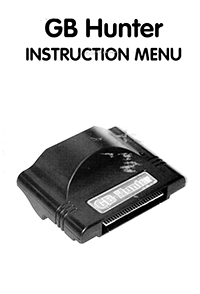
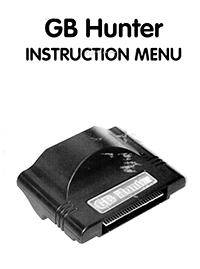
Make manual thumbnails the same size

Changed region(s): [[0.06, 0.4164, 0.96, 0.9219], [0.12, 0.0595, 0.93, 0.2379]]

diff --git a/README.md b/README.md
@@ -121,9 +121,10 @@ N64 GameShark "ROMs" contain the firmware, cheat list, _and_ user preferences, s
 
 The Markdown versions have been transcribed as faithfully to the original printed materials as possible. All typos, misspellings, and odd/inconsistent style choices are intentionally left as-is.
 
+![N64 GameShark v1.09 manual thumbnail](/n64/manuals/thumbs/gs-v1.09-manual-p1.png)
+![N64 GameShark v3.20 manual thumbnail](/n64/manuals/thumbs/gs-v3.20-manual-p1.png)
 ![N64 DexDrive manual thumbnail](/n64/manuals/thumbs/dexdrive-manual-p2.png)
 ![N64 GB Hunter manual thumbnail](/n64/manuals/thumbs/gb-hunter-manual-p1.png)
-![N64 GameShark v1.09 manual thumbnail](/n64/manuals/thumbs/gs-v1.09-manual-p1.png)
 
 #### DexDrive
 
